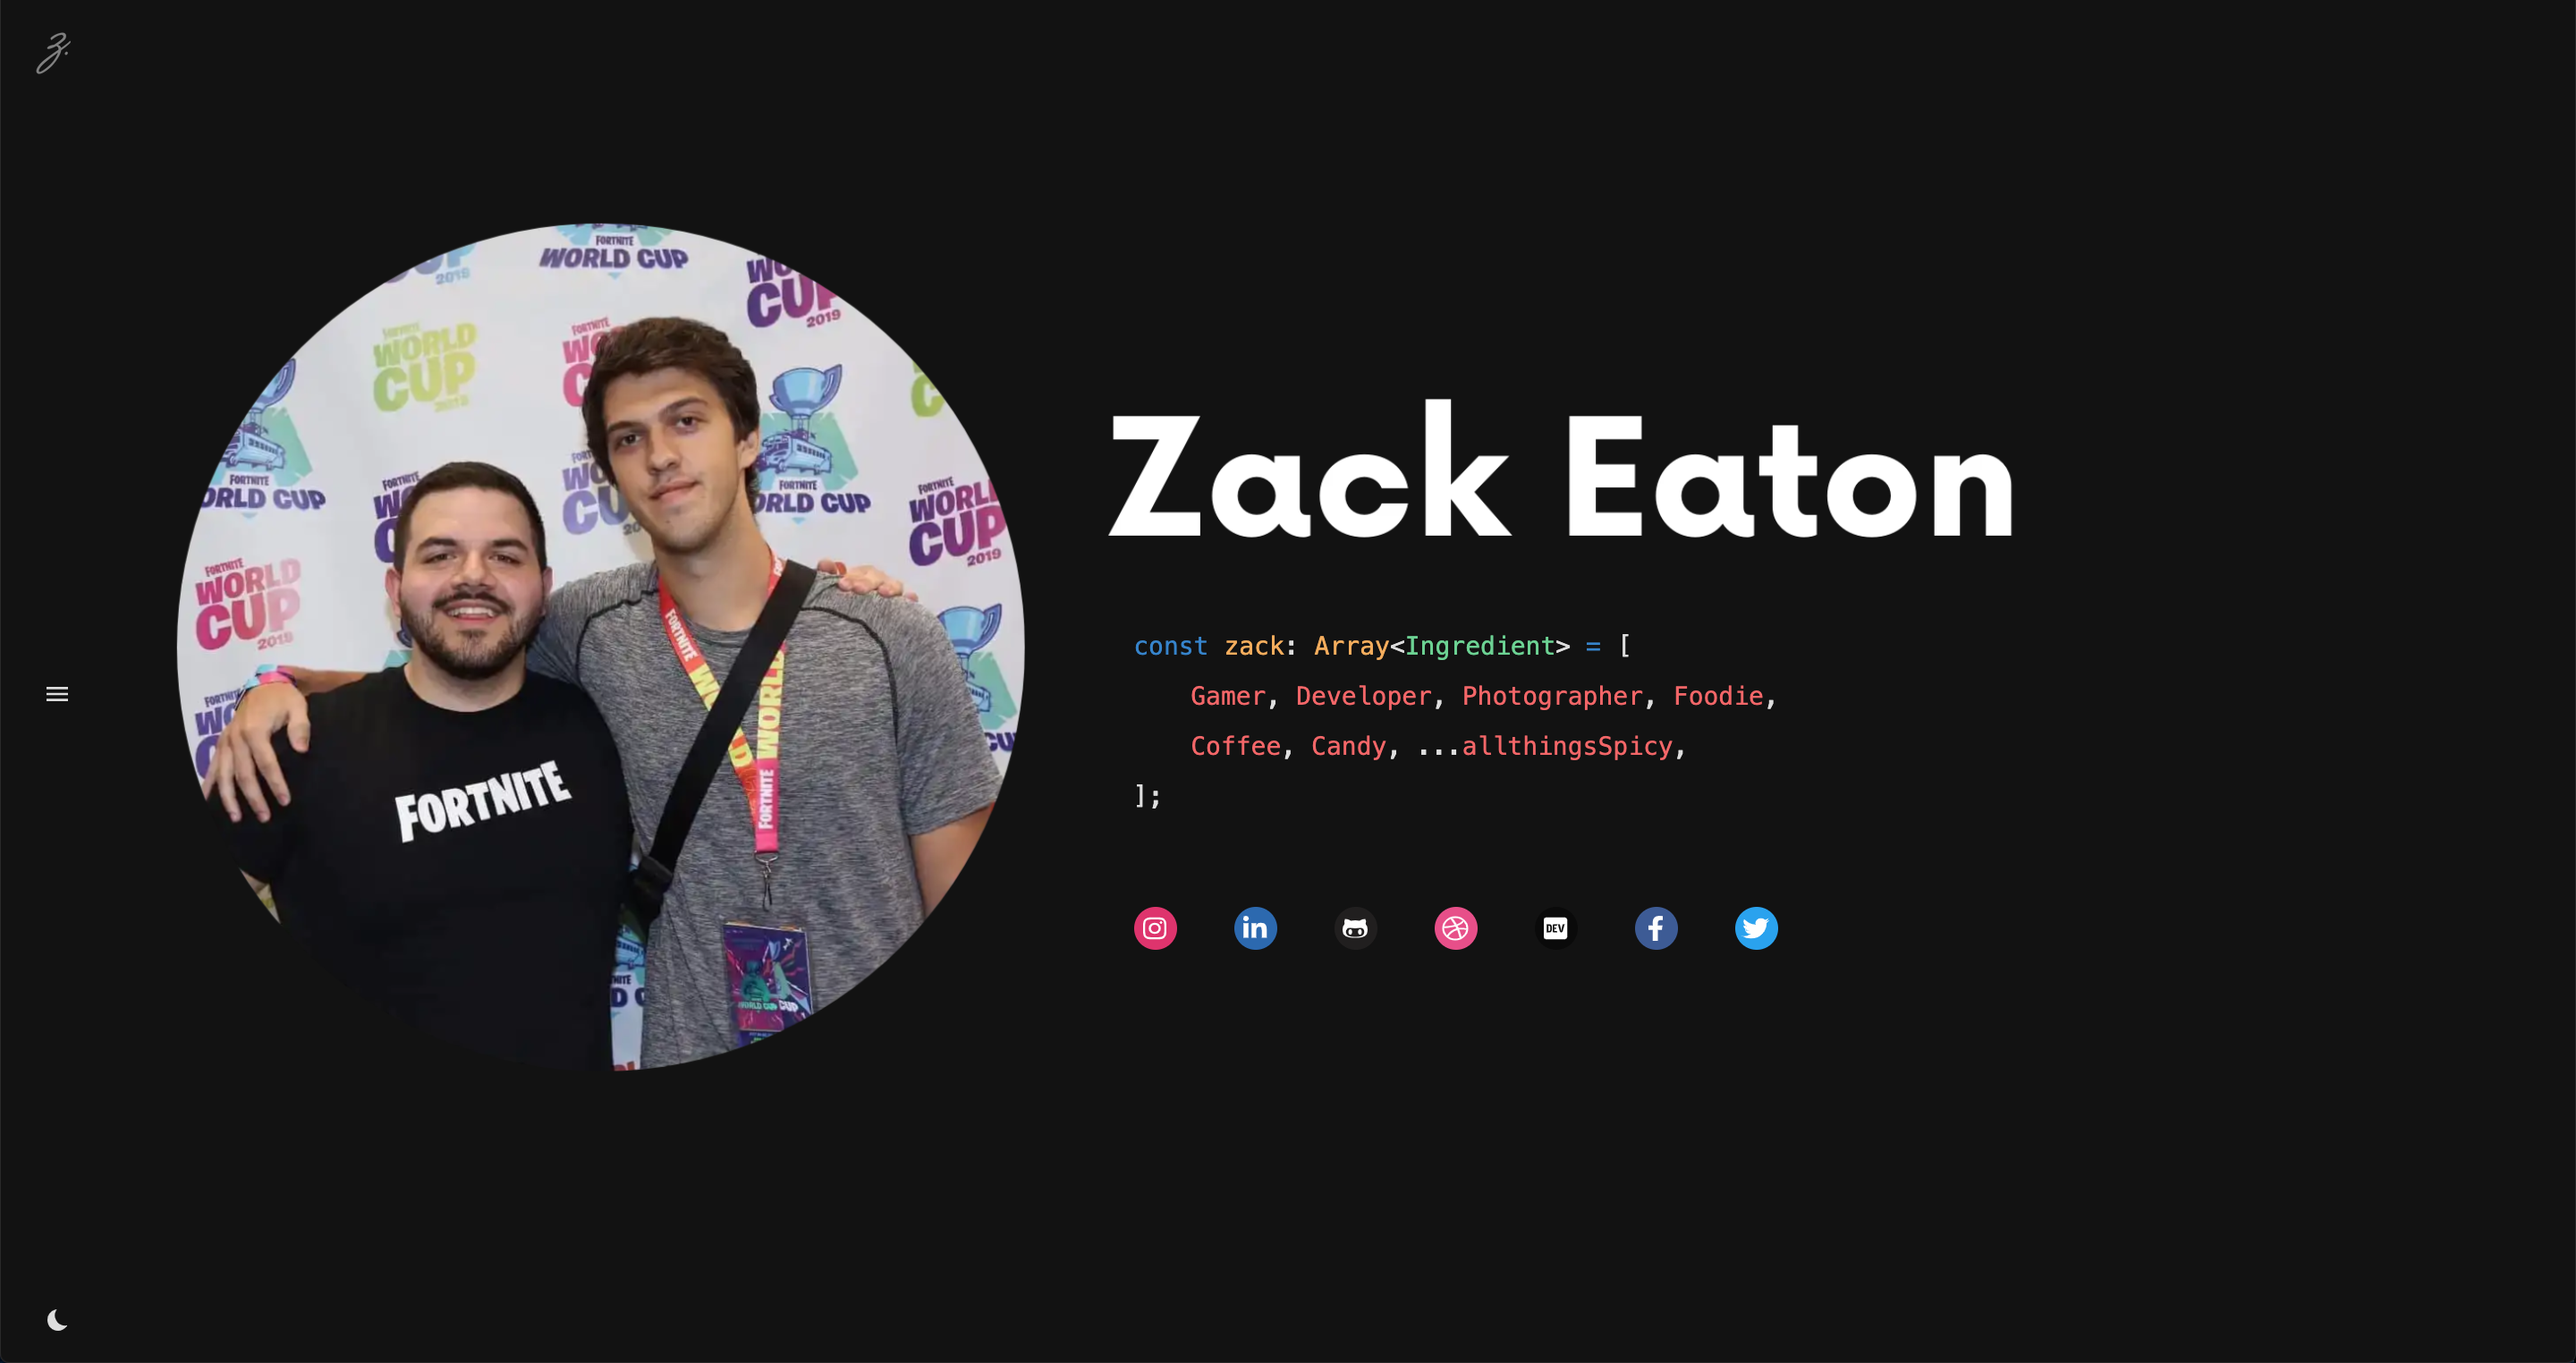
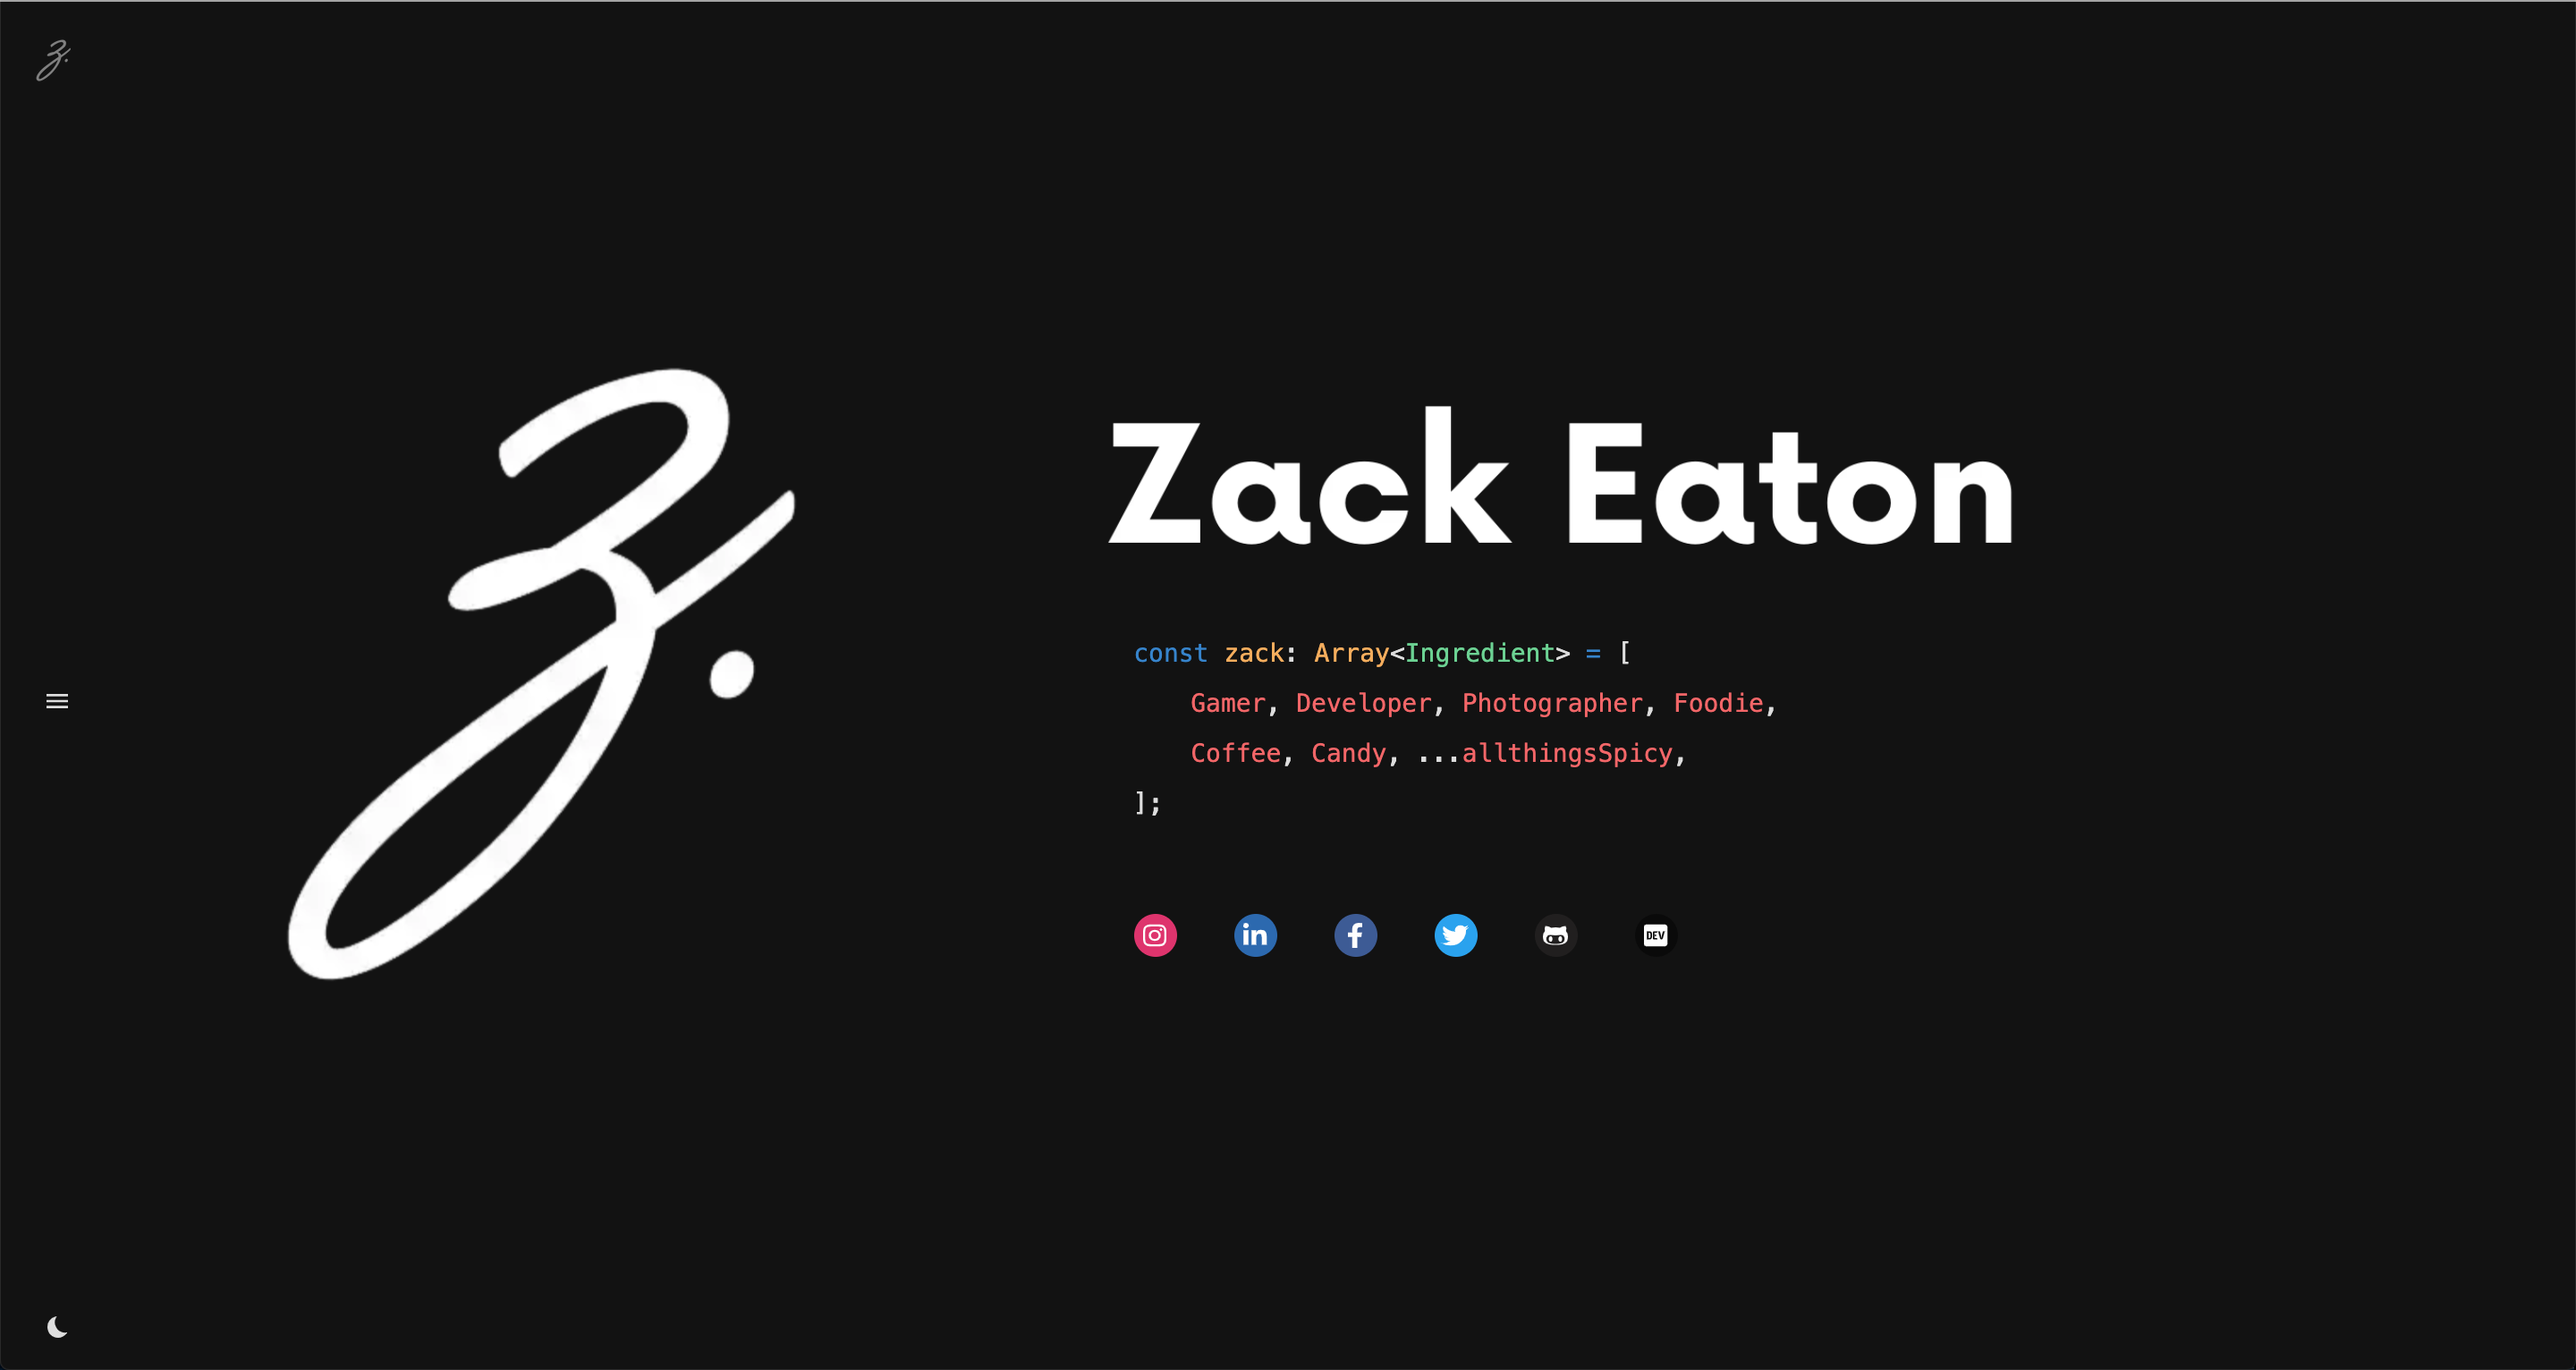
Update Hero.js & Share.png

diff --git a/src/sections/Hero.js b/src/sections/Hero.js
@@ -12,7 +12,7 @@ const Hero = () => {
   const [showSocial, setShowSocial] = useState(false);
   const data = useStaticQuery(graphql`
     {
-      photo: file(relativePath: { eq: "photo.png" }) {
+      photo: file(relativePath: { eq: "icon.png" }) {
         childImageSharp {
           fluid(maxWidth: 512) {
             ...GatsbyImageSharpFluid_withWebp_noBase64
